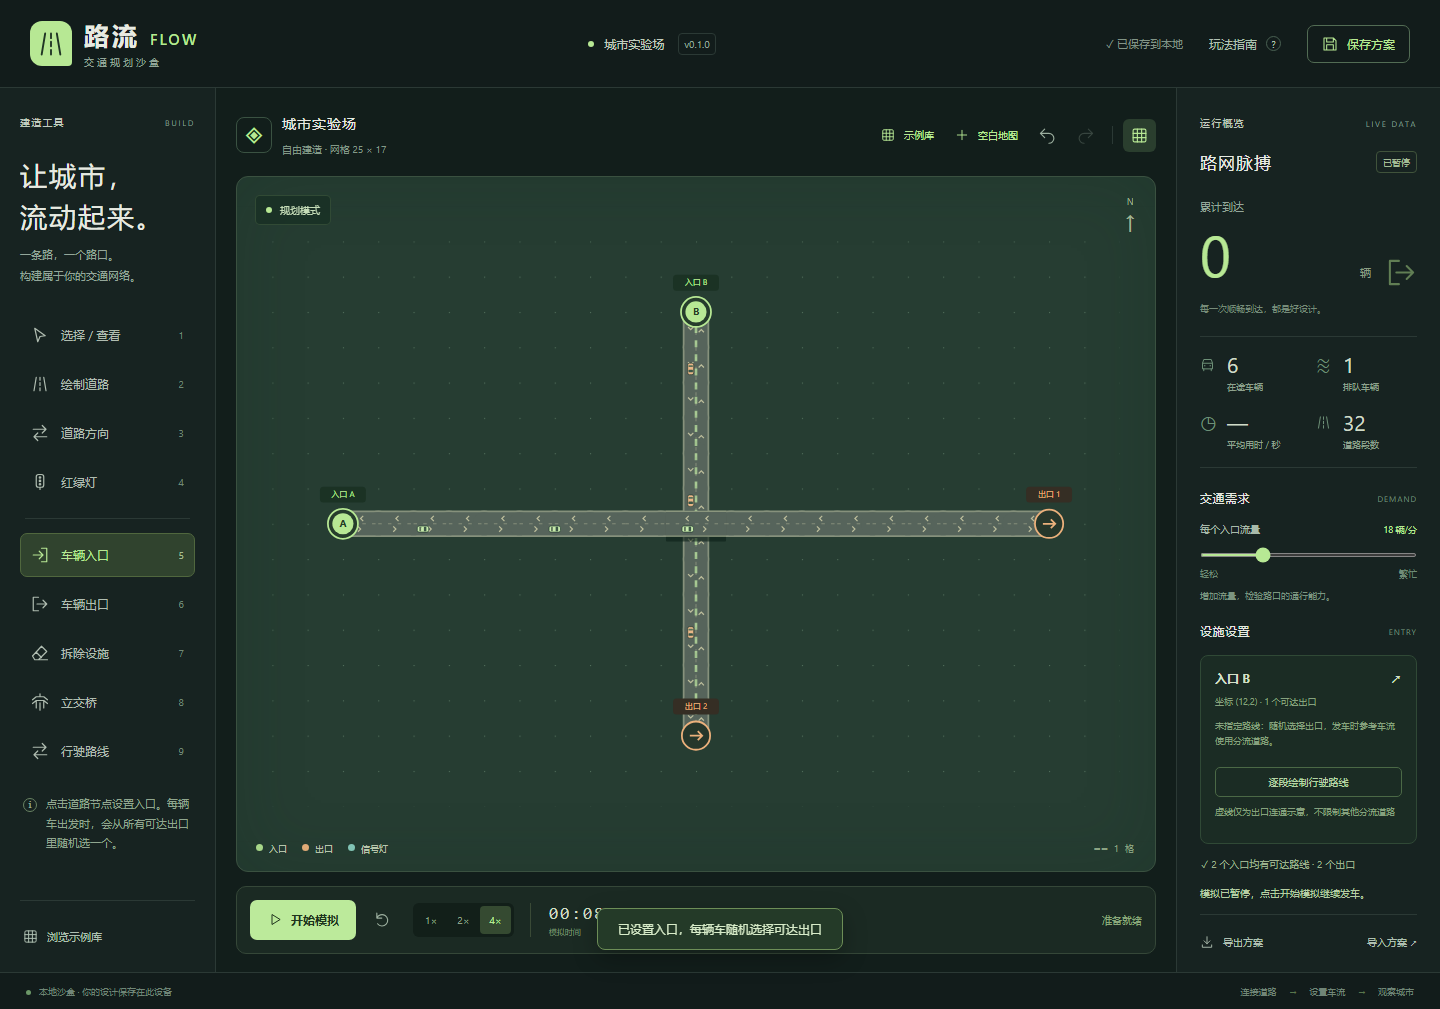
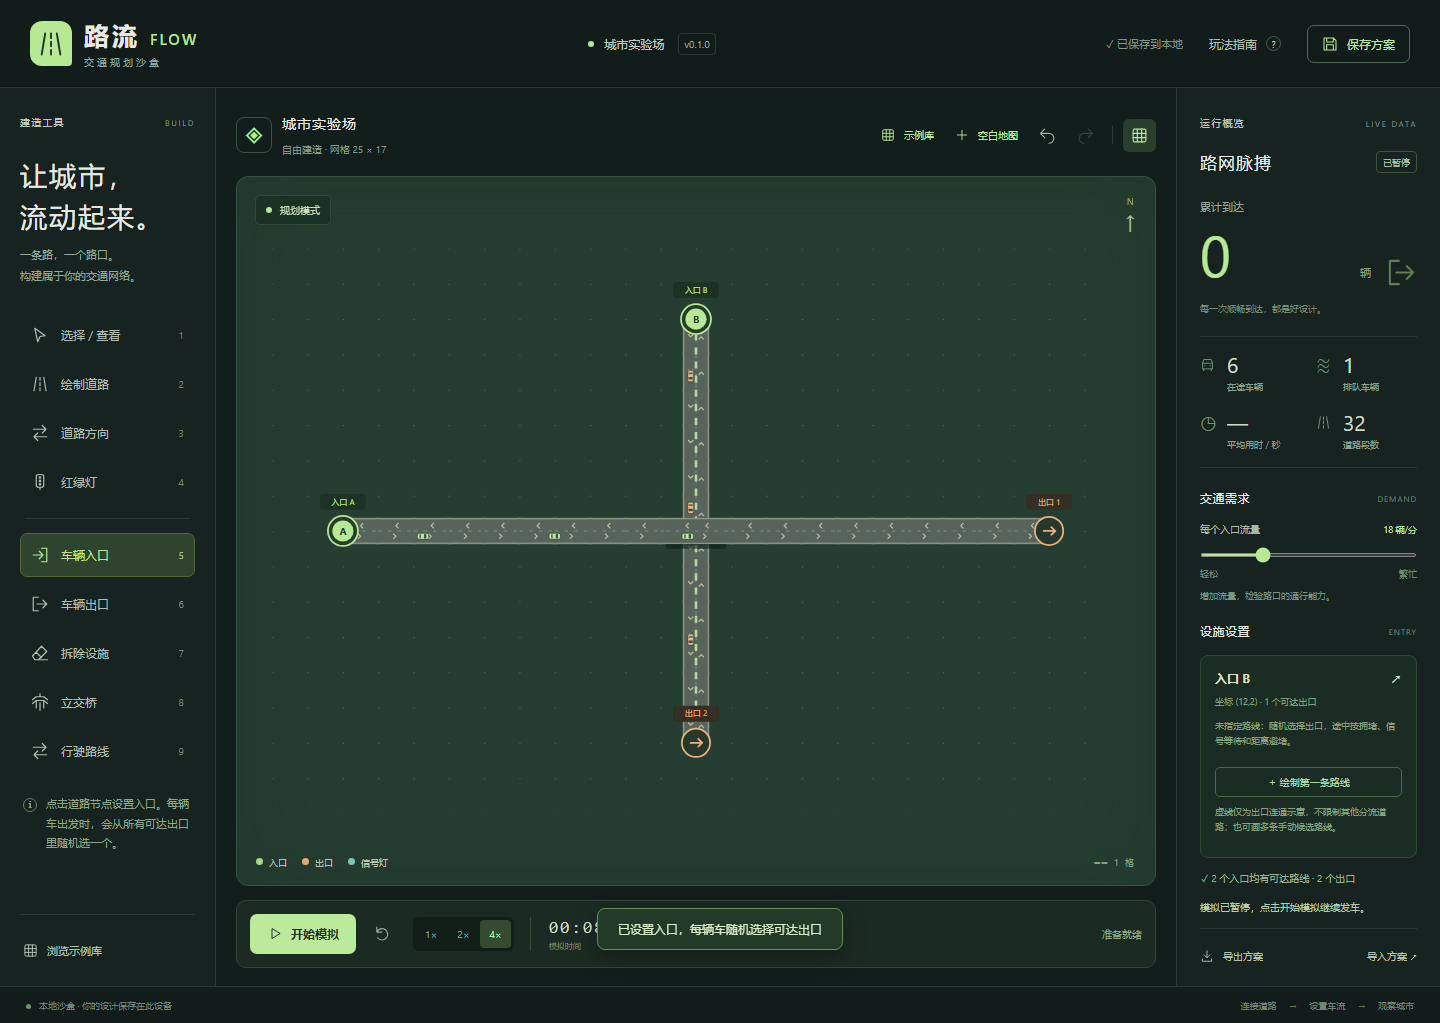
docs: verify live rerouting and multi-route editing

diff --git a/doc/途中避堵与路线管理测试报告.md b/doc/途中避堵与路线管理测试报告.md
@@ -1,0 +1,26 @@
+# 途中避堵与多路线管理验收
+
+日期：2026-10-24，Asia/Shanghai。本次用户确认：自动车辆途中避堵，手画路线仍严格遵守；同入口可绘多条候选路线并单独删除。
+
+## 执行结果
+- `node --test`：71 通过、0 失败；新增8项途中选路、信号预测与约束测试。原始输出见 evidence/rerouting-unit-20261024.txt。
+- `node scripts/build.js` 与 `node scripts/check-dist.js`：七文件构建及源码、版本、许可逐字节核验通过。
+- `node --check src/app.js`、`git diff --check` 通过。
+- 在 `FLOW_BASE_URL=http://localhost:4267` 独立上下文执行 `node scripts/browser-check.js`：46 项通过、0 失败、页面错误0。原始版本及检查名见 evidence/browser-results.json。
+
+## 途中重规划
+旧版新增用例先实际出现5项失败，复现发车后坚持原路线、信号时间不参与预测、起点桥节点缺少来向约束。实现后新增8项全部通过：拥堵在出发后出现时，车在路口前修改后续路线并最终抵达原出口；当前路段、位置与已行驶前缀不变；红灯等待和距离参与比较；已预约路口的转向不变；手画路线不变；桥上来向不丢失；小于2秒的收益及3秒改道冷却抑制反复切换；禁访已走节点防止绕回旧路。
+
+既有分流回归保留“实际车辆使用支路”的断言，补一辆队尾车，让该支路在新增信号相位预测后仍确实更快；不要求车辆为了绕路而选择预计更慢的路径。随机出口、跟车间距、交叉口互斥、闭环协同与高需求路网十分钟持续到达等旧回归继续通过。
+
+浏览器 R04 在真实运行的66段分流路网中观察到车辆 `data-reroutes>0`，且运行提示显示自动改道次数；I29仍检查原被忽略支路上出现可见车流。证据：evidence/diversion-desktop.png。
+
+## 多条路线
+R01：真实点击绘制同一入口、同一出口的两条不同途经路线，原另一入口的路线保留。R02：单独预览两条不同路径，预览不改存档；删除一条后另一条及另一入口保持；撤销、重做、刷新均一致。R03：390×844 手机预览与删除可用，无横向溢出；删除本入口最后一条恢复自动模式，另一入口继续保持指定路线，删除可撤销。
+
+已查看 evidence/multiple-routes-desktop.png 与 multiple-routes-mobile.png：路线卡片分别显示出口、格数、可用状态及独立删除按钮，选中路线与地图预览对应。独立可见测试页已加载新版并保留路线管理示例；原127.0.0.1页面没有被刷新或改图。
+
+## 范围与环境记录
+首次浏览器运行未连接到沙箱内服务器，在任何交互用例前因网络超时停止；将已有开发服务器正常启动在浏览器可达的回环环境后，完整46项重新通过。未减弱检查或跳过失败用例。
+
+这是本机功能更新；GitHub v0.1.0 和大厅目录26仍对应10月21日已验证发行，本轮未重新签名发布，也未进行Android真机验收。

diff --git a/README.md b/README.md
@@ -21,7 +21,7 @@ node scripts/serve.js
 6. 开始模拟，观察车辆、到达量、排队数与平均用时。
 7. 立交桥工具（8）：点击十字交叉点，把一条道路架到另一条上方；再次点击可换桥上方向。桥上桥下只可直行，不会互相转入。选择桥可拆桥恢复平交，方向工具继续限制单行/双向。
 8. 画路时，中途跨过已有道路默认不连接；可选新路在上、新路在下或连接路口。要接入交叉点，分段绘制，把交叉点作为一段的端点。
-9. 行驶路线工具（9）：先点击入口，再按顺序逐段点击道路，最后点击出口。车会严格沿这条路线前进，不会自己找捷径或掉头。有多条指定路线时随机分流；路线失效则停发，在入口设置中可删除路线。
+9. 行驶路线工具（9）：先点击入口，再按顺序逐段点击道路，最后点击出口。车会严格沿这条路线前进。入口设置可「添加另一条路线」，也可为同一出口画不同途经路线；点击列表单独预览，点右侧 × 仅删除这一条，支持撤销/重做。车辆在候选路线间随机分流；删除最后一条后该入口恢复自动避堵。
 
 编辑会暂停并重置车辆和统计，保留路网。Ctrl+Z 撤销，Ctrl+Shift+Z 重做；1–9 切换工具。地图内方向键移动，Enter/空格操作。空白处空格开始/暂停，Escape 取消连线。
 
@@ -29,7 +29,7 @@ node scripts/serve.js
 
 各入口独立根据自己的道路空位发车，无全局 180 辆停发限制。入口前方排队时会等待腾位，侧栏显示等待原因；切换其他标签页会自动暂停，可点击开始模拟继续。
 
-未指定行驶路线时，车辆先随机选择可达出口，再在发车前根据实时车流选择道路。连通的较空分流线会参与计算，已发出的车保持原路径。指定行驶路线始终优先，不会被自动分流覆盖。
+未指定行驶路线时，车辆先随机选择可达出口，再按剩余路程、车道排队和预计红灯等待比较时间。行驶途中也会在路口前重算尚未走过的部分，保持原出口，不掉头、不逆行、不跨层转弯；只有明显更快才改道，并有冷却以减少反复切换。运行提示显示实际自动改道次数。手画的指定路线始终严格执行，不会被自动避堵覆盖。
 
 ## 验证
 `node --test`；`node scripts/build.js` 构建后启动服务，再执行 `node scripts/browser-check.js` 运行浏览器检查（需 playwright@1.62.1，可通过 PLAYWRIGHT_MODULE 指定已有模块）。真实浏览器交互结果见 `doc/第一版本测试报告.md`。

diff --git a/doc/实施计划.md b/doc/实施计划.md
@@ -62,12 +62,14 @@
 
 验证证据：2026-10-21，完整 63 项 Node 测试与 40 项 Chromium 交互检查通过（0 错误），构建 6 文件；见第一版本测试报告及 evidence/browser-results.json、examples-desktop.png、examples-mobile.png。六例均通过路线校验和持续车流测试，浏览器逐例实际到达；重复载入同例重置、关闭不改图、撤销与刷新保存均通过。
 
-## P12 自动车辆途中重规划 `[PENDING]`
+## P12 自动车辆途中重规划 `[VERIFIED]`
 - **Objective**：按实时排队、预计红灯等待及距离在路口前比较剩余路线，目的地、道路方向及桥层保持，手画路线严格执行。
 - **Definition of Done**：旧版先复现堵车后坚持原路线；回归覆盖中途改道、抵达原出口、不掉头/逆行/跨层、不修改已预约路径、冷却与小收益不改道、手画路线不变；全量与真实浏览器运行通过。
 - **Files**：src/core.js、src/simulation.js、src/app.js、tests/rerouting.test.js、scripts/browser-check.js。
 
-## P13 多路线独立预览与删除 `[PENDING]`
+## P13 多路线独立预览与删除 `[VERIFIED]`
 - **Objective**：同一入口多条候选路线清晰可选，单条预览/删除、继续添加，并保留其它路线及入口。
 - **Definition of Done**：真实浏览器画两条同出口路线，逐条预览、单独删除、撤销/重做/刷新及手机操作通过；删除最后一条恢复自动模式。
 - **Files**：src/app.js、styles.css、scripts/browser-check.js、tests/planning.test.js、README.md。
+
+2026-10-24 验证：71 项 Node 与 46 项真实 Chromium 检查通过，0 错误；七文件构建与逐字节核验通过。见「途中避堵与路线管理测试报告.md」、evidence/browser-results.json、multiple-routes-desktop.png、multiple-routes-mobile.png、diversion-desktop.png。本轮为本机功能更新，公开0.1.0发行身份不变。

diff --git a/CHANGELOG.md b/CHANGELOG.md
@@ -1,5 +1,10 @@
 # 更新记录
 
+## 未发布
+
+- 自动车辆在路口准入前按排队、预计红灯等待与距离重算剩余路线，保持原出口、来向和已行驶前缀；收益门槛与改道冷却减少反复切换。
+- 手画路线保持严格遵守；入口可添加多条同出口候选路线，逐条预览、单独删除、撤销重做与保存恢复。
+
 ## 0.1.0 — 2026-10-21
 
 - 空白地图起步，拖动修路、单向/双向、红绿灯、车辆入口与出口。
